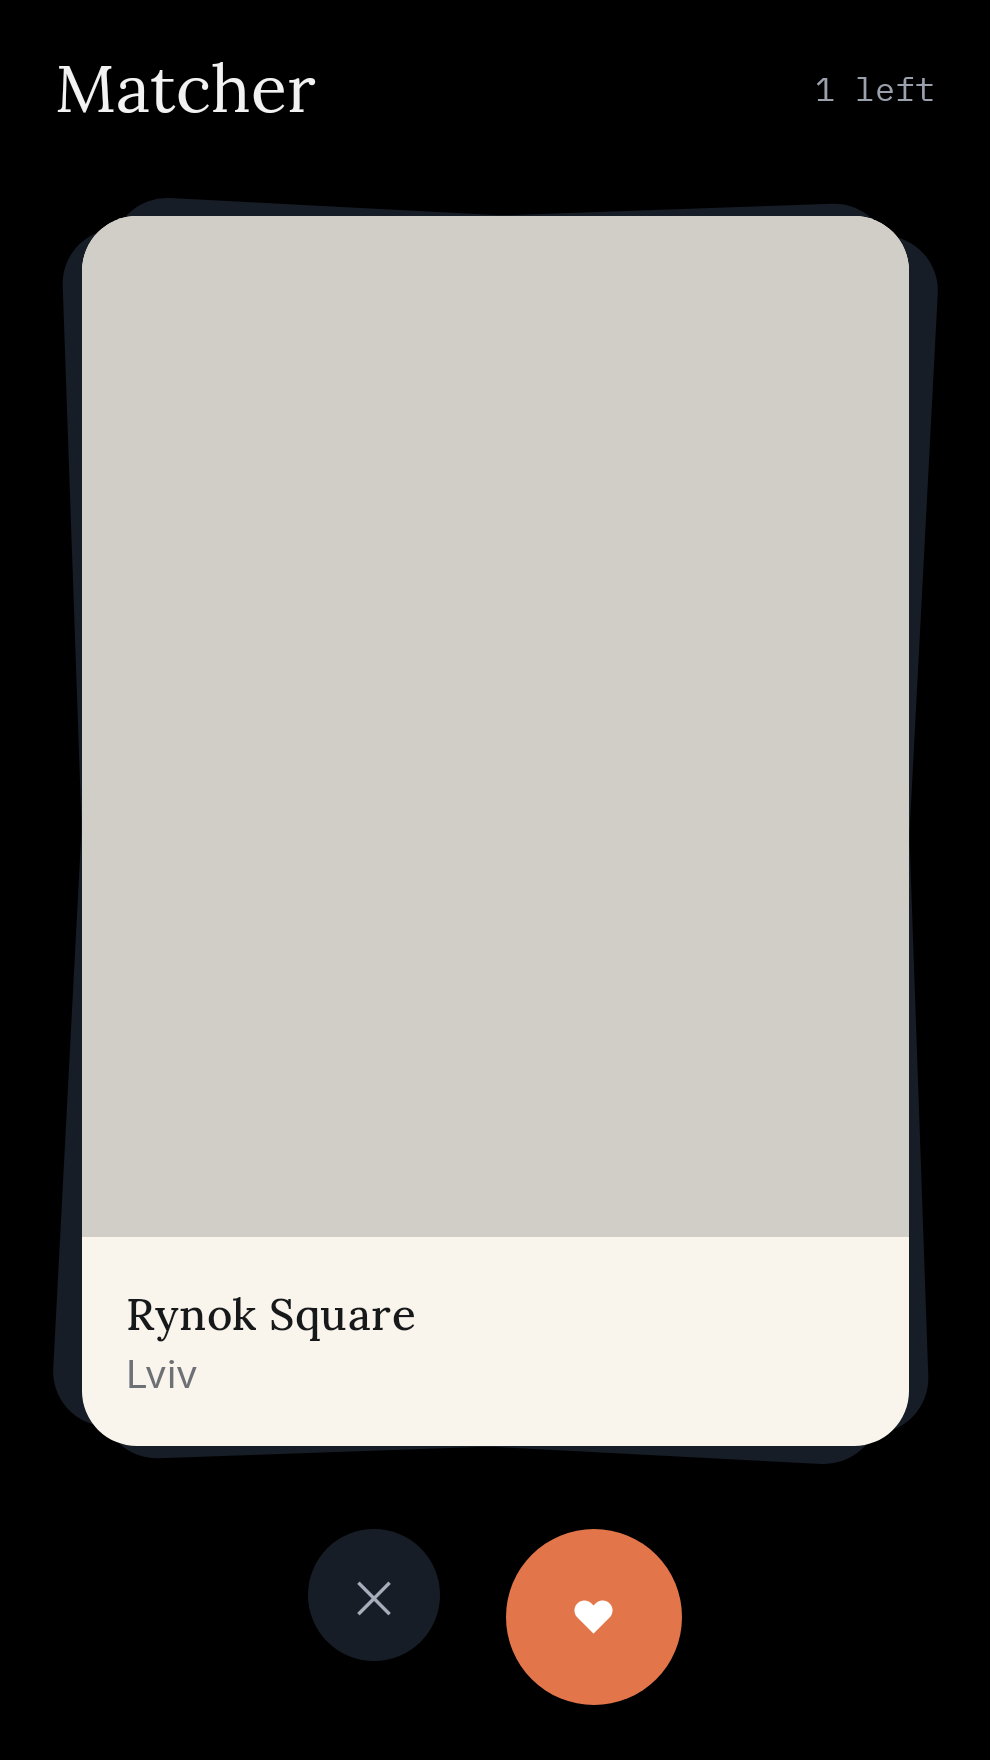
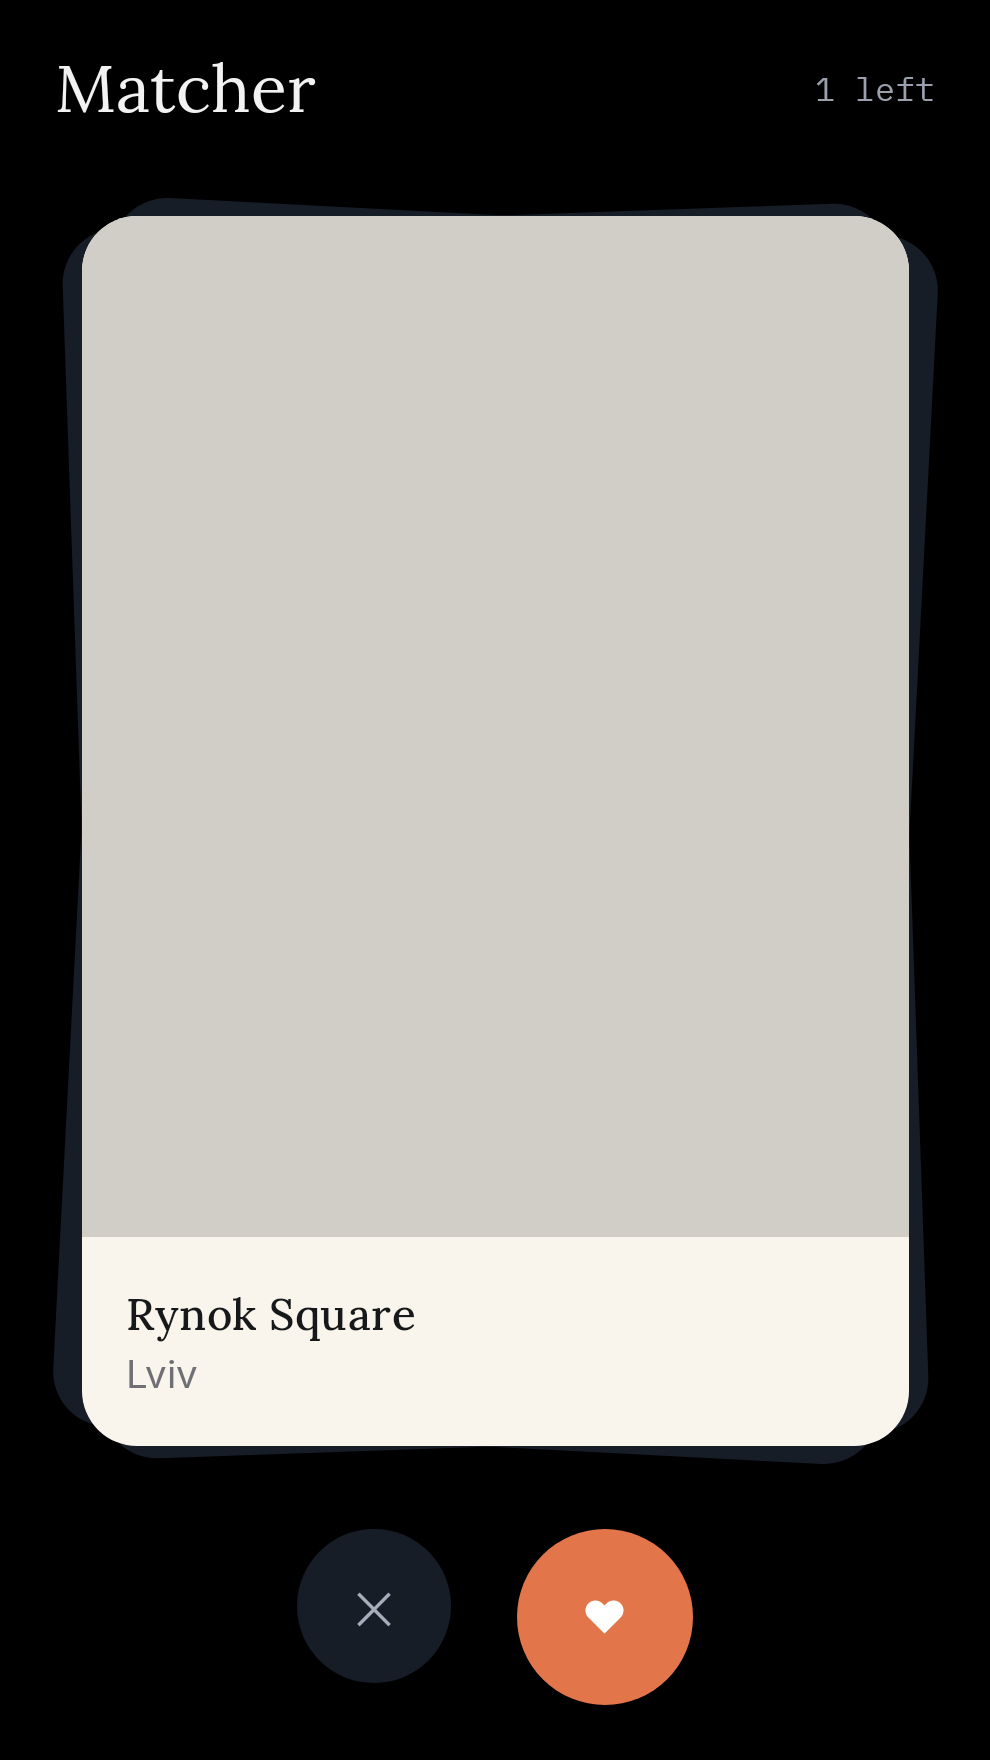
fix(feature-matcher): idle swipe wobble animation + dislike button sizing
Design mockup's cardSwipe keyframe (rotate+shift right at 35%, neutral,
rotate+shift left at 85%, neutral, 5s infinite loop) as an idle "this is
swipeable" hint on the top card only, suppressed while a real drag is
active so it never fights finger tracking. Driven by
rememberInfiniteTransition/keyframes, not a hand-rolled LaunchedEffect
frame loop - Compose's test framework specifically excludes
InfiniteTransition-driven animations from its "is the app idle" check.
A first attempt used a manual per-frame loop to make the animation curve
directly unit-testable, but that loop never settles from the test
framework's point of view - it made every Espresso-backed test in this
module hang/OOM/AppNotIdleException until caught live via a real test
run. Reverted to the same InfiniteTransition approach PulsingDot/
DashedRingBadge already use safely elsewhere in this codebase.

CircleIconButton (core:ui) gains an optional `size: Dp?` override so the
matcher's dislike button can be sized 56dp (matching the mockup, 8dp
under the 64dp like button) without resizing every other
CircleIconButtonStyle.Dark consumer (FullscreenPhotoViewer's close
button, Settings) tied to the shared 48dp default.

Also bumps the Roborazzi/Robolectric test-worker JVM's maxHeapSize to 4g
(RoborazziConventionPlugin) - the forked test worker's heap is
independent of the Gradle daemon's own -Xmx and defaulted to a few
hundred MB, which OOM'd on an unrelated test once enough Compose
[…]

diff --git a/feature/matcher/src/commonMain/kotlin/com/alongside/feature/matcher/presentation/SwipeableCard.kt b/feature/matcher/src/commonMain/kotlin/com/alongside/feature/matcher/presentation/SwipeableCard.kt
@@ -1,6 +1,11 @@
 package com.alongside.feature.matcher.presentation
 
 import androidx.compose.animation.core.Animatable
+import androidx.compose.animation.core.RepeatMode
+import androidx.compose.animation.core.animateFloat
+import androidx.compose.animation.core.infiniteRepeatable
+import androidx.compose.animation.core.keyframes
+import androidx.compose.animation.core.rememberInfiniteTransition
 import androidx.compose.animation.core.spring
 import androidx.compose.animation.core.tween
 import androidx.compose.foundation.gestures.detectHorizontalDragGestures
@@ -14,6 +19,7 @@ import androidx.compose.material3.Text
 import androidx.compose.runtime.Composable
 import androidx.compose.runtime.getValue
 import androidx.compose.runtime.mutableFloatStateOf
+import androidx.compose.runtime.mutableStateOf
 import androidx.compose.runtime.remember
 import androidx.compose.runtime.rememberCoroutineScope
 import androidx.compose.runtime.setValue
@@ -36,6 +42,19 @@ private val FlingDistance = 1200.dp
 private val RotationReferenceWidth = 300.dp
 private const val MAX_ROTATION_DEGREES = 12f
 
+// Idle "this is swipeable" wobble (design mockup's `cardSwipe` keyframe: rotate+shift right at
+// 35%, back to neutral, rotate+shift left at 85%, back to neutral) - decorative only, suppressed
+// while a real drag is active so it never fights actual finger tracking. Driven by
+// `rememberInfiniteTransition`/`keyframes`, not a hand-rolled `LaunchedEffect`+`withFrameMillis`
+// loop - Compose's test framework specifically excludes `InfiniteTransition`-driven animations
+// from its "is the app idle" check (the same reason `PulsingDot`/`DashedRingBadge` elsewhere in
+// this codebase are safe inside Roborazzi goldens); a manual perpetual frame loop doesn't get that
+// exemption and made every Espresso-backed test in this module hang/OOM/AppNotIdleException until
+// this was caught live.
+private const val WOBBLE_DURATION_MILLIS = 5000
+private const val WOBBLE_MAX_ROTATION_DEGREES = 6f
+private val WobbleMaxTranslation = 14.dp
+
 /**
  * A single Tinder-style card: horizontal drag only, no velocity tracking (a fixed distance
  * threshold is enough for this milestone). The swipe decision is dispatched to [onSwipe] the
@@ -49,28 +68,76 @@ internal fun SwipeableCard(
     modifier: Modifier = Modifier,
 ) {
     var offsetX by remember { mutableFloatStateOf(0f) }
+    var isDragging by remember { mutableStateOf(false) }
     val scope = rememberCoroutineScope()
     val density = LocalDensity.current
     val thresholdPx = with(density) { SwipeCommitThreshold.toPx() }
     val flingDistancePx = with(density) { FlingDistance.toPx() }
     val rotationReferencePx = with(density) { RotationReferenceWidth.toPx() }
+    val wobbleTranslationPx = with(density) { WobbleMaxTranslation.toPx() }
+
+    val wobbleTransition = rememberInfiniteTransition(label = "swipeable-card-wobble")
+    val wobbleRotation by wobbleTransition.animateFloat(
+        initialValue = 0f,
+        targetValue = 0f,
+        animationSpec =
+            infiniteRepeatable(
+                animation =
+                    keyframes {
+                        durationMillis = WOBBLE_DURATION_MILLIS
+                        0f at 0
+                        0f at 900
+                        WOBBLE_MAX_ROTATION_DEGREES at 1750
+                        0f at 2500
+                        0f at 3400
+                        -WOBBLE_MAX_ROTATION_DEGREES at 4250
+                        0f at 5000
+                    },
+                repeatMode = RepeatMode.Restart,
+            ),
+        label = "wobble-rotation",
+    )
+    val wobbleTranslation by wobbleTransition.animateFloat(
+        initialValue = 0f,
+        targetValue = 0f,
+        animationSpec =
+            infiniteRepeatable(
+                animation =
+                    keyframes {
+                        durationMillis = WOBBLE_DURATION_MILLIS
+                        0f at 0
+                        0f at 900
+                        wobbleTranslationPx at 1750
+                        0f at 2500
+                        0f at 3400
+                        -wobbleTranslationPx at 4250
+                        0f at 5000
+                    },
+                repeatMode = RepeatMode.Restart,
+            ),
+        label = "wobble-translation",
+    )
 
     Surface(
         modifier =
             modifier
                 .testTag("swipeable-card")
                 .graphicsLayer {
-                    translationX = offsetX
+                    val idleRotation = if (isDragging) 0f else wobbleRotation
+                    val idleTranslation = if (isDragging) 0f else wobbleTranslation
+                    translationX = offsetX + idleTranslation
                     rotationZ =
                         (offsetX / rotationReferencePx * MAX_ROTATION_DEGREES)
-                            .coerceIn(-MAX_ROTATION_DEGREES, MAX_ROTATION_DEGREES)
+                            .coerceIn(-MAX_ROTATION_DEGREES, MAX_ROTATION_DEGREES) + idleRotation
                 }.pointerInput(candidate.id) {
                     detectHorizontalDragGestures(
+                        onDragStart = { isDragging = true },
                         onHorizontalDrag = { change, dragAmount ->
                             change.consume()
                             offsetX += dragAmount
                         },
                         onDragEnd = {
+                            isDragging = false
                             val committed = offsetX
                             if (abs(committed) > thresholdPx) {
                                 val direction = if (committed > 0) SwipeDirection.LIKE else SwipeDirection.DISLIKE
@@ -85,6 +152,7 @@ internal fun SwipeableCard(
                                 }
                             }
                         },
+                        onDragCancel = { isDragging = false },
                     )
                 },
         shape = MaterialTheme.shapes.large,

diff --git a/feature/matcher/src/androidHostTest/kotlin/com/alongside/feature/matcher/presentation/SwipeableCardWobbleTest.kt b/feature/matcher/src/androidHostTest/kotlin/com/alongside/feature/matcher/presentation/SwipeableCardWobbleTest.kt
@@ -1,0 +1,51 @@
+package com.alongside.feature.matcher.presentation
+
+import androidx.compose.foundation.layout.size
+import androidx.compose.ui.Modifier
+import androidx.compose.ui.test.junit4.createComposeRule
+import androidx.compose.ui.test.onNodeWithTag
+import androidx.compose.ui.test.performTouchInput
+import androidx.compose.ui.test.swipeRight
+import androidx.compose.ui.unit.dp
+import com.alongside.core.model.place.SwipeDirection
+import com.alongside.core.ui.theme.AlongsideTheme
+import com.alongside.feature.matcher.fakeCandidate
+import org.junit.Rule
+import org.junit.Test
+import org.junit.runner.RunWith
+import org.robolectric.RobolectricTestRunner
+import kotlin.test.assertEquals
+
+/**
+ * The idle wobble itself is driven by `rememberInfiniteTransition` (same as `PulsingDot`/
+ * `DashedRingBadge` elsewhere in this codebase) specifically because Compose's test framework
+ * excludes `InfiniteTransition`-driven animations from its "is the app idle" check - a
+ * `graphicsLayer` transform isn't otherwise observable through Compose UI test's semantics tree
+ * under Robolectric, and an earlier `LaunchedEffect`+`withFrameMillis`-driven attempt at this same
+ * animation made every Espresso-backed test in this module hang. This file only guards that real
+ * drag-to-swipe behavior still works with the wobble's `isDragging` gating wired in.
+ */
+@RunWith(RobolectricTestRunner::class)
+class SwipeableCardWobbleTest {
+    @get:Rule
+    val composeTestRule = createComposeRule()
+
+    @Test
+    fun `a real drag still commits a swipe decision with the idle wobble wired in`() {
+        var captured: SwipeDirection? = null
+        composeTestRule.setContent {
+            AlongsideTheme {
+                SwipeableCard(
+                    candidate = fakeCandidate("place-1"),
+                    onSwipe = { captured = it },
+                    modifier = Modifier.size(360.dp, 500.dp),
+                )
+            }
+        }
+
+        composeTestRule.onNodeWithTag("swipeable-card").performTouchInput { swipeRight() }
+        composeTestRule.waitForIdle()
+
+        assertEquals(SwipeDirection.LIKE, captured)
+    }
+}

diff --git a/core/ui/src/commonMain/kotlin/com/alongside/core/ui/component/CircleIconButton.kt b/core/ui/src/commonMain/kotlin/com/alongside/core/ui/component/CircleIconButton.kt
@@ -14,12 +14,18 @@ import androidx.compose.ui.Modifier
 import androidx.compose.ui.semantics.contentDescription
 import androidx.compose.ui.semantics.semantics
 import androidx.compose.ui.tooling.preview.Preview
+import androidx.compose.ui.unit.Dp
 import androidx.compose.ui.unit.dp
 import com.alongside.core.ui.theme.AlongsideSpacing
 import com.alongside.core.ui.theme.AlongsideTheme
 import com.alongside.core.ui.theme.alongsideColors
 
-/** Circular action button pair from the matcher screen. */
+/**
+ * Circular action button pair from the matcher screen. [size] overrides [style]'s own default
+ * for one call site (e.g. the matcher's dislike button, sized to match the design mockup) without
+ * resizing every other [CircleIconButtonStyle.Dark] consumer ([FullscreenPhotoViewer]'s close
+ * button, Settings) that relies on the shared default.
+ */
 @Composable
 public fun CircleIconButton(
     onClick: () -> Unit,
@@ -27,10 +33,11 @@ public fun CircleIconButton(
     modifier: Modifier = Modifier,
     style: CircleIconButtonStyle = CircleIconButtonStyle.Dark,
     enabled: Boolean = true,
+    size: Dp? = null,
     content: @Composable () -> Unit,
 ) {
-    val size =
-        when (style) {
+    val resolvedSize =
+        size ?: when (style) {
             CircleIconButtonStyle.Dark -> 48.dp
             CircleIconButtonStyle.Primary -> 64.dp
         }
@@ -52,7 +59,7 @@ public fun CircleIconButton(
         }
     Surface(
         onClick = onClick,
-        modifier = semanticsModifier.size(size),
+        modifier = semanticsModifier.size(resolvedSize),
         enabled = enabled,
         shape = CircleShape,
         color = containerColor,

diff --git a/core/ui/src/androidHostTest/kotlin/com/alongside/core/ui/component/CircleIconButtonTest.kt b/core/ui/src/androidHostTest/kotlin/com/alongside/core/ui/component/CircleIconButtonTest.kt
@@ -1,9 +1,12 @@
 package com.alongside.core.ui.component
 
 import androidx.compose.material3.Text
+import androidx.compose.ui.test.assertHeightIsEqualTo
+import androidx.compose.ui.test.assertWidthIsEqualTo
 import androidx.compose.ui.test.junit4.createComposeRule
 import androidx.compose.ui.test.onNodeWithContentDescription
 import androidx.compose.ui.test.performClick
+import androidx.compose.ui.unit.dp
 import com.alongside.core.ui.theme.AlongsideTheme
 import org.junit.Rule
 import org.junit.Test
@@ -55,5 +58,26 @@ class CircleIconButtonTest {
         composeTestRule.onNodeWithContentDescription("Want to go").performClick()
 
         assertFalse(clicked)
+    }
+
+    @Test
+    fun `an explicit size overrides the style default`() {
+        composeTestRule.setContent {
+            AlongsideTheme {
+                CircleIconButton(
+                    onClick = {},
+                    contentDescription = "Skip place",
+                    style = CircleIconButtonStyle.Dark,
+                    size = 56.dp,
+                ) {
+                    Text("✕")
+                }
+            }
+        }
+
+        composeTestRule
+            .onNodeWithContentDescription("Skip place")
+            .assertWidthIsEqualTo(56.dp)
+            .assertHeightIsEqualTo(56.dp)
     }
 }

diff --git a/feature/matcher/src/commonMain/kotlin/com/alongside/feature/matcher/presentation/MatcherScreen.kt b/feature/matcher/src/commonMain/kotlin/com/alongside/feature/matcher/presentation/MatcherScreen.kt
@@ -23,6 +23,7 @@ import androidx.compose.runtime.setValue
 import androidx.compose.ui.Alignment
 import androidx.compose.ui.Modifier
 import androidx.compose.ui.draw.rotate
+import androidx.compose.ui.unit.dp
 import com.alongside.core.model.place.PlaceCandidate
 import com.alongside.core.model.place.SwipeDirection
 import com.alongside.core.ui.component.CircleIconButton
@@ -166,6 +167,10 @@ internal fun MatcherContent(
                         onClick = { decide(top, SwipeDirection.DISLIKE) },
                         contentDescription = "Skip ${top.name}",
                         style = CircleIconButtonStyle.Dark,
+                        // Design mockup sizes the dislike button 56dp, 8dp under the 64dp like
+                        // button - closer to it than the shared CircleIconButtonStyle.Dark
+                        // default (48dp) reads on this screen specifically.
+                        size = 56.dp,
                     ) {
                         Text("✕")
                     }

diff --git a/build-logic/convention/src/main/kotlin/RoborazziConventionPlugin.kt b/build-logic/convention/src/main/kotlin/RoborazziConventionPlugin.kt
@@ -66,6 +66,12 @@ class RoborazziConventionPlugin : Plugin<Project> {
             // recommended by Roborazzi itself to avoid Robolectric pixel-copy fidelity issues.
             tasks.withType(Test::class.java).configureEach {
                 systemProperty("robolectric.pixelCopyRenderMode", "hardware")
+                // The forked test-worker JVM's heap is independent of the Gradle daemon's own
+                // `-Xmx` (gradle.properties' org.gradle.jvmargs only affects the daemon) and
+                // defaults to a few hundred MB - too little once a module accumulates enough
+                // Robolectric/Compose screenshot tests in one worker process (confirmed live:
+                // OutOfMemoryError in an unrelated test while another was mid-Roborazzi-record).
+                maxHeapSize = "4g"
             }
 
             extensions.configure<KotlinMultiplatformExtension> {
